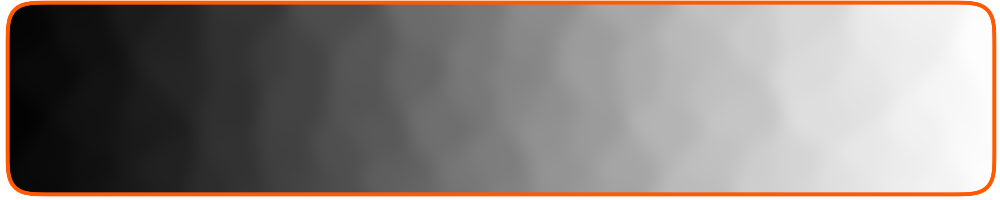
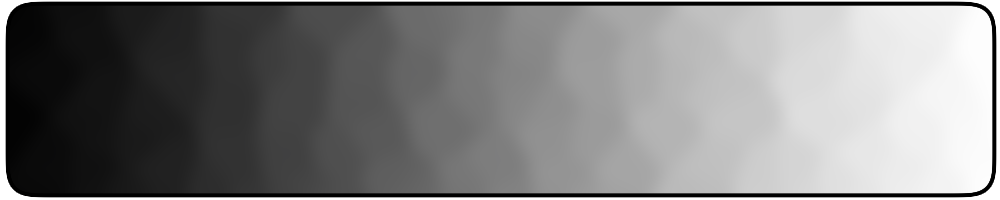
bar shader

Changed region(s): [[0.0, 0.0, 1.0, 0.99]]

diff --git a/SDGJ2020/core/ui.cpp b/SDGJ2020/core/ui.cpp
@@ -8,13 +8,12 @@ void UI::Init()
 	auto hypebarRenderable = pHypebar->AddComponent<Renderable>();
 	hypebarRenderable->isUI = true;
 	hypebarRenderable->SetTexture("art/HypeBar2.png");
-	hypebarRenderable->m_layerOrder = 100;
 
 
 	pHypebar->m_position = glm::vec2(0, 3);
 	pHypebar->m_scale = glm::vec2(5,5);
 	hypebarRenderable->m_layerOrder = 1;
-	hypebarRenderable->OverrideShader("shaders/test.fs");
+	hypebarRenderable->OverrideShader("shaders/stepBarUI.fs");
 }
 
 void UI::CleanUp()
